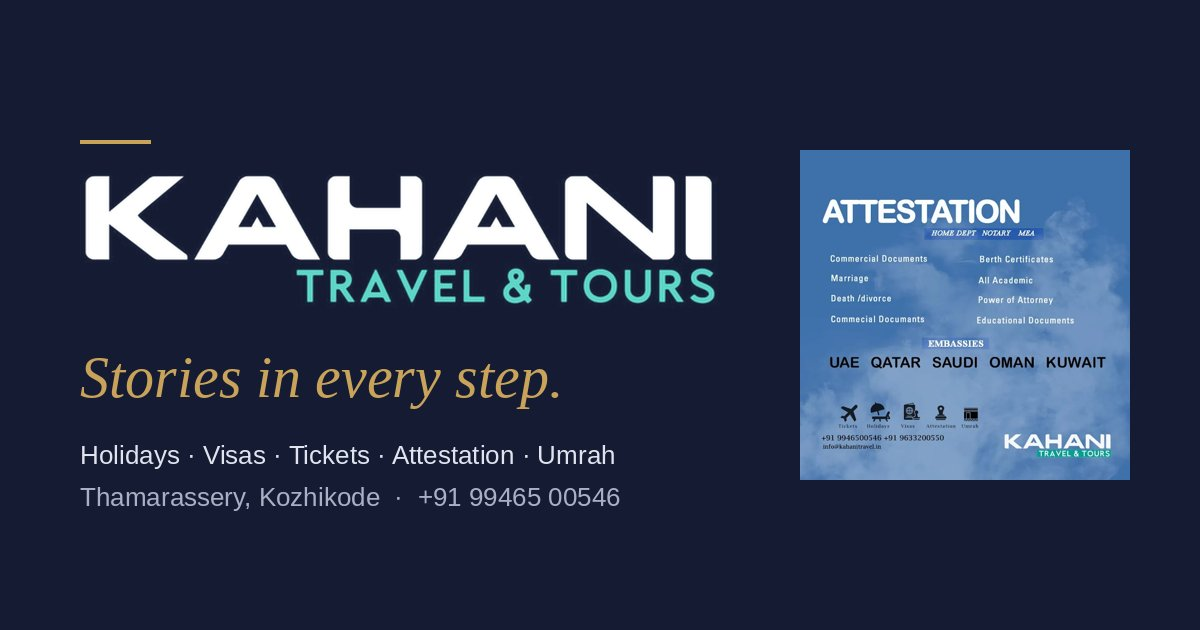
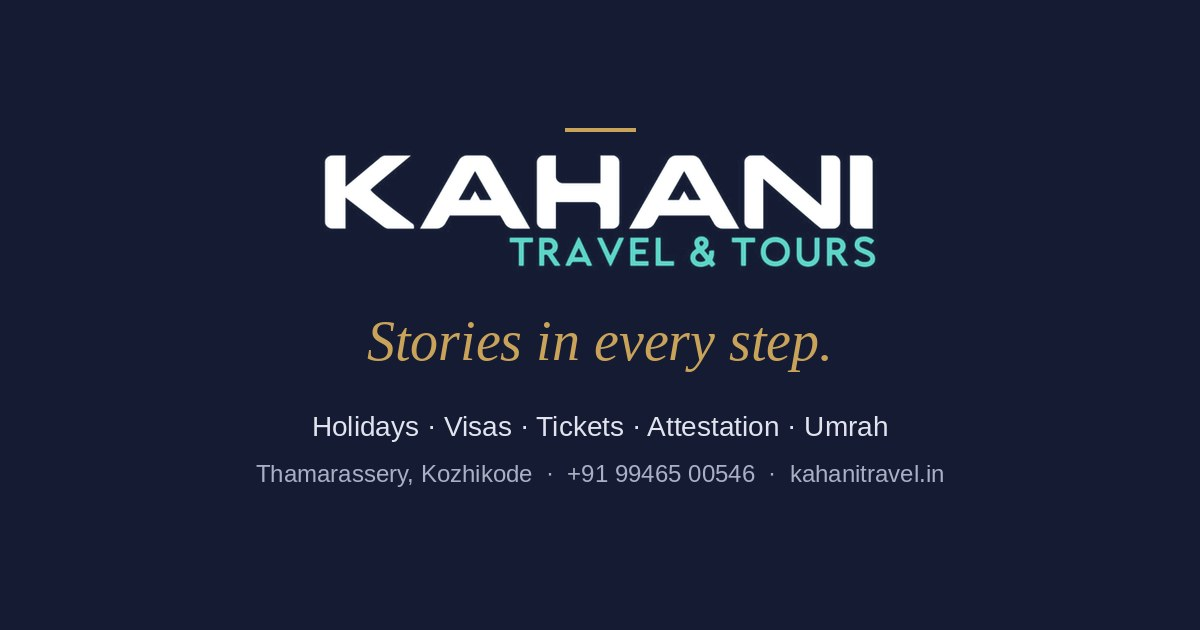
Attestation: professional layout with document tiles, embassy chips and 4-step process panel; replace poster; cleaner share image
Claude-Session: https://claude.ai/code/session_01RKHXH4zcuBdmcZFaozL93n

Changed region(s): [[0.0617, 0.2111, 0.9558, 0.8143], [0.4625, 0.181, 0.5242, 0.2111], [0.0617, 0.2111, 0.1233, 0.2413]]

diff --git a/index.html b/index.html
@@ -299,22 +299,45 @@
     <div class="attest-text reveal">
       <p class="eyebrow">Certificate Attestation</p>
       <h2 id="attest-h">Your documents, <em>handled with care.</em></h2>
-      <p>Getting a job, studying or joining family abroad starts with properly attested papers. We take your certificates through every step (notary, HRD, Home Department, MEA and the embassy) and keep you informed until they are back in your hands.</p>
-      <div class="chips"><span>HRD</span><span>Home Department</span><span>Notary</span><span>MEA / Apostille</span><span>Embassy</span></div>
-      <div class="doc-list">
-        <div><svg class="ic"><use href="#i-check"/></svg>Academic &amp; educational certificates</div>
-        <div><svg class="ic"><use href="#i-check"/></svg>Commercial documents</div>
-        <div><svg class="ic"><use href="#i-check"/></svg>Birth certificates</div>
-        <div><svg class="ic"><use href="#i-check"/></svg>Marriage certificates</div>
-        <div><svg class="ic"><use href="#i-check"/></svg>Death / divorce certificates</div>
-        <div><svg class="ic"><use href="#i-check"/></svg>Power of attorney</div>
+      <p class="at-lead">Getting a job, studying or joining family abroad starts with properly attested papers. We take your certificates through every office and keep you informed until they are back in your hands.</p>
+
+      <p class="at-label">Documents we attest</p>
+      <ul class="at-docs">
+        <li><span class="at-ic"><svg viewBox="0 0 24 24"><path d="M12 3 1.5 8.5 12 14l8.5-4.45V16h2V8.5L12 3zM5.5 12.6v3.9L12 20l6.5-3.5v-3.9L12 16l-6.5-3.4z"/></svg></span>Academic &amp; educational</li>
+        <li><span class="at-ic"><svg viewBox="0 0 24 24"><path d="M10 3h4a2 2 0 0 1 2 2v1h4a2 2 0 0 1 2 2v11a2 2 0 0 1-2 2H4a2 2 0 0 1-2-2V8a2 2 0 0 1 2-2h4V5a2 2 0 0 1 2-2zm0 3h4V5h-4v1z"/></svg></span>Commercial documents</li>
+        <li><span class="at-ic"><svg viewBox="0 0 24 24"><path d="M12 2a3 3 0 1 1 0 6 3 3 0 0 1 0-6zm-1.5 7h3a3.5 3.5 0 0 1 3.5 3.5V16h-2.5v6h-5v-6H7v-3.5A3.5 3.5 0 0 1 10.5 9z"/></svg></span>Birth certificates</li>
+        <li><span class="at-ic"><svg viewBox="0 0 24 24"><path d="M8.5 7.5a6 6 0 1 1 0 12 6 6 0 0 1 0-12zm0 2a4 4 0 1 0 0 8 4 4 0 0 0 0-8zm7-5a6 6 0 1 1-3.1 11.1 7.9 7.9 0 0 0 .9-2A4 4 0 1 0 12.4 9a8 8 0 0 0-2-.9A6 6 0 0 1 15.5 4.5z"/></svg></span>Marriage certificates</li>
+        <li><span class="at-ic"><svg viewBox="0 0 24 24"><path d="M6 2h9l5 5v13a2 2 0 0 1-2 2H6a2 2 0 0 1-2-2V4a2 2 0 0 1 2-2zm8 1.5V8h4.5L14 3.5zM8 12v2h8v-2H8zm0 4v2h5v-2H8z"/></svg></span>Death / divorce certificates</li>
+        <li><span class="at-ic"><svg viewBox="0 0 24 24"><path d="m14.06 6.19 3.75 3.75L7.75 20H4v-3.75L14.06 6.19zm1.41-1.41 1.84-1.84a1 1 0 0 1 1.41 0l2.34 2.34a1 1 0 0 1 0 1.41l-1.84 1.84-3.75-3.75zM13 20h8v2h-8v-2z"/></svg></span>Power of attorney</li>
+      </ul>
+
+      <p class="at-label">Embassy attestation for</p>
+      <ul class="at-countries">
+        <li><b>AE</b><span>UAE</span></li>
+        <li><b>QA</b><span>Qatar</span></li>
+        <li><b>SA</b><span>Saudi Arabia</span></li>
+        <li><b>OM</b><span>Oman</span></li>
+        <li><b>KW</b><span>Kuwait</span></li>
+      </ul>
+
+      <div class="at-actions">
+        <a href="#contact" class="btn btn-navy" data-enquire="Certificate Attestation">Enquire About Attestation <svg class="ic"><use href="#i-arrow"/></svg></a>
+        <a href="#" class="btn btn-wa" data-wa="Hello Kahani Travel, I need certificate attestation. Which documents should I bring?"><svg class="ic"><use href="#i-wa"/></svg>Ask on WhatsApp</a>
       </div>
-      <p class="embassy-title">Embassy attestation for</p>
-      <div class="flags"><span>UAE</span><span>Qatar</span><span>Saudi Arabia</span><span>Oman</span><span>Kuwait</span></div>
-      <a href="#contact" class="btn btn-navy" data-enquire="Certificate Attestation">Enquire About Attestation <svg class="ic"><use href="#i-arrow"/></svg></a>
     </div>
-    <div class="attest-media reveal">
-      <img src="assets/attestation.jpg" alt="Certificate attestation services in Kozhikode for the UAE, Qatar, Saudi, Oman and Kuwait embassies" loading="lazy" width="768" height="768">
+
+    <div class="attest-visual reveal">
+      <img class="at-photo" src="https://plus.unsplash.com/premium_photo-1661487134705-b3693a52965c?auto=format&fit=crop&w=1000&q=70" alt="Official approving and stamping a document for certificate attestation" loading="lazy" width="1000" height="1200">
+      <div class="at-process">
+        <p class="at-label light">How attestation works</p>
+        <ol>
+          <li><span>1</span><div><b>Notary</b><small>Document verified &amp; notarised</small></div></li>
+          <li><span>2</span><div><b>HRD / Home Department</b><small>State-level authentication</small></div></li>
+          <li><span>3</span><div><b>MEA</b><small>Ministry of External Affairs / Apostille</small></div></li>
+          <li><span>4</span><div><b>Embassy</b><small>Final attestation by the destination country</small></div></li>
+        </ol>
+        <p class="at-foot"><svg class="ic"><use href="#i-check"/></svg>Updates at every stage, until your documents are back with you</p>
+      </div>
     </div>
   </div>
 </section>

diff --git a/style.css b/style.css
@@ -592,3 +592,45 @@ address { font-style: normal; margin-bottom: 8px; }
 }
 
 [hidden] { display: none !important; }
+
+/* ---------- Attestation (professional layout) ---------- */
+.attest-in { align-items: center; }
+.at-lead { color: var(--muted); margin-bottom: 30px; max-width: 560px; }
+.at-label { font-size: .7rem; letter-spacing: .24em; text-transform: uppercase; color: var(--muted); font-weight: 500; margin: 0 0 14px; }
+.at-label.light { color: var(--gold); }
+.at-docs { list-style: none; padding: 0; margin: 0 0 30px; display: grid; grid-template-columns: repeat(3, 1fr); gap: 10px; }
+.at-docs li { display: flex; flex-direction: column; gap: 10px; padding: 16px 14px; border: 1px solid var(--line); border-radius: 16px; background: var(--ivory); font-size: .88rem; font-weight: 500; color: var(--ink); line-height: 1.3; transition: .3s var(--ease); }
+.at-docs li:hover { border-color: var(--teal); background: #fff; transform: translateY(-2px); }
+.at-ic { width: 36px; height: 36px; border-radius: 11px; display: grid; place-items: center; background: rgba(31, 157, 139, .1); color: var(--teal); }
+.at-ic svg { width: 20px; height: 20px; fill: currentColor; }
+.at-countries { list-style: none; padding: 0; margin: 0 0 34px; display: flex; flex-wrap: wrap; gap: 8px; }
+.at-countries li { display: flex; align-items: center; gap: 10px; padding: 7px 16px 7px 7px; border: 1px solid var(--line); border-radius: 999px; background: #fff; font-size: .9rem; font-weight: 500; color: var(--ink); }
+.at-countries b { width: 30px; height: 30px; border-radius: 50%; display: grid; place-items: center; background: var(--ink); color: var(--gold); font-size: .68rem; letter-spacing: .04em; }
+.at-actions { display: flex; flex-wrap: wrap; gap: 12px; }
+
+.attest-visual { position: relative; padding-bottom: 40px; }
+.at-photo { width: 86%; aspect-ratio: 5 / 6; object-fit: cover; border-radius: 28px; margin-left: auto; box-shadow: var(--shadow); background: var(--sand); }
+.at-process { position: absolute; left: 0; bottom: 0; width: 72%; background: var(--ink); color: #fff; border-radius: 24px; padding: 26px 26px 20px; box-shadow: 0 30px 60px -24px rgba(20, 27, 51, .6); }
+.at-process ol { list-style: none; padding: 0; margin: 0; position: relative; }
+.at-process ol::before { content: ""; position: absolute; left: 15px; top: 16px; bottom: 16px; width: 1px; background: rgba(201, 163, 90, .4); }
+.at-process li { display: flex; gap: 14px; align-items: flex-start; padding: 8px 0; position: relative; }
+.at-process li > span { width: 31px; height: 31px; border-radius: 50%; flex: none; display: grid; place-items: center; background: var(--ink); border: 1px solid var(--gold); color: var(--gold); font-weight: 600; font-size: .82rem; z-index: 1; }
+.at-process b { display: block; font-size: .95rem; font-weight: 600; line-height: 1.3; }
+.at-process small { display: block; color: rgba(255, 255, 255, .6); font-size: .78rem; line-height: 1.4; }
+.at-foot { margin: 12px 0 0; padding-top: 14px; border-top: 1px solid rgba(255, 255, 255, .1); font-size: .78rem; color: rgba(255, 255, 255, .75); display: flex; gap: 8px; align-items: flex-start; }
+.at-foot .ic { color: var(--teal-l); margin-top: 2px; }
+@media (max-width: 960px) {
+  .attest-visual { max-width: 560px; width: 100%; margin-inline: auto; }
+}
+@media (max-width: 720px) {
+  .at-docs { grid-template-columns: 1fr 1fr; }
+  .at-actions .btn { width: 100%; }
+  .attest-visual { padding-bottom: 0; }
+  .at-photo { width: 100%; aspect-ratio: 4 / 3; }
+  .at-process { position: relative; width: 92%; margin: -60px auto 0; }
+}
+@media (min-width: 961px) {
+  .at-countries { flex-wrap: nowrap; gap: 6px; }
+  .at-countries li { padding: 6px 12px 6px 6px; gap: 8px; font-size: .85rem; white-space: nowrap; }
+  .at-countries b { width: 28px; height: 28px; }
+}
